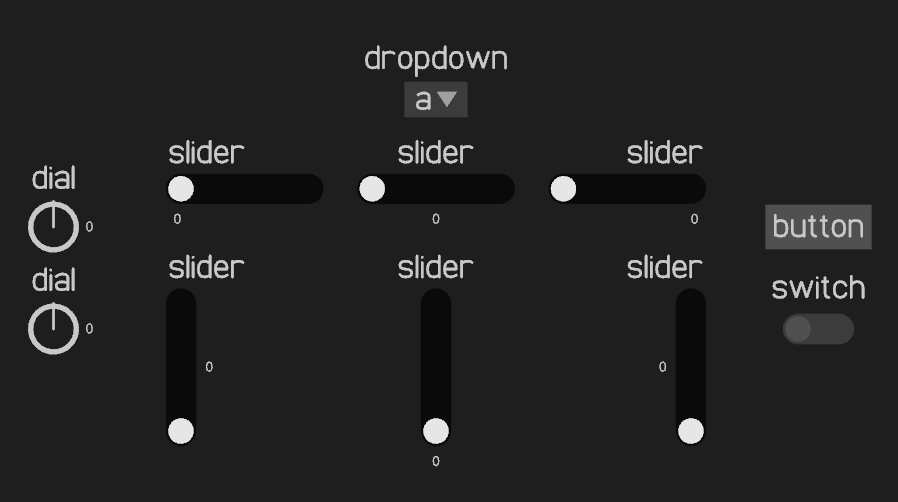
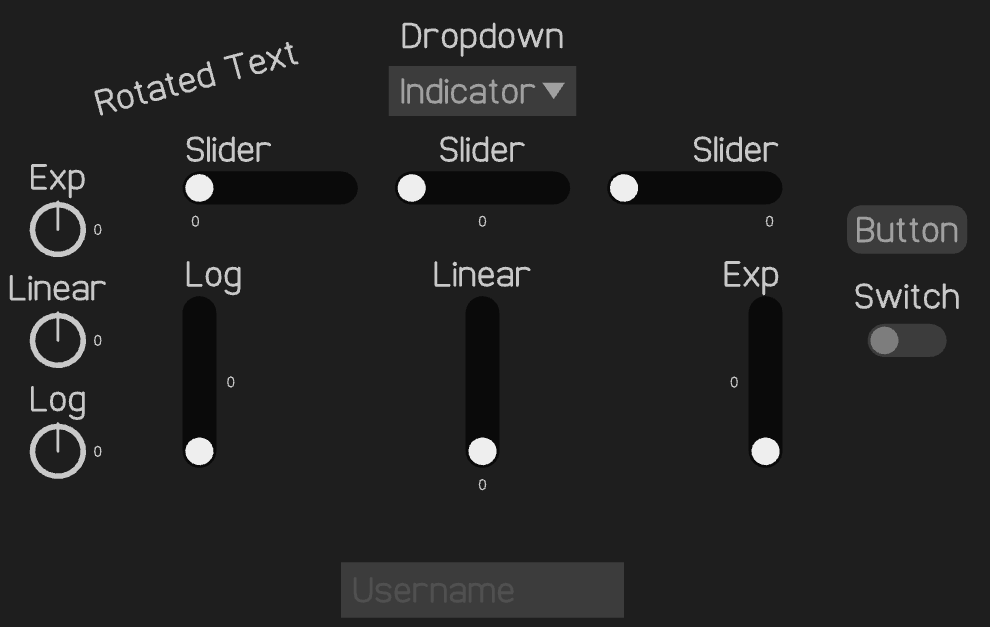
update README

diff --git a/README.md b/README.md
@@ -43,7 +43,7 @@ turtleText extends the functionality of turtle to allow text to be drawn to the 
 
 ## TurtleTools
 
-turtleTools contains many different UI elements including dropdowns, dials, sliders, switches, and buttons.
+turtleTools contains many different UI elements including buttons, switches, dials, sliders, texboxes, dropdowns, scrollbars, and context menus.
 
 ![turtleTools](images/turtleTools.png)
 